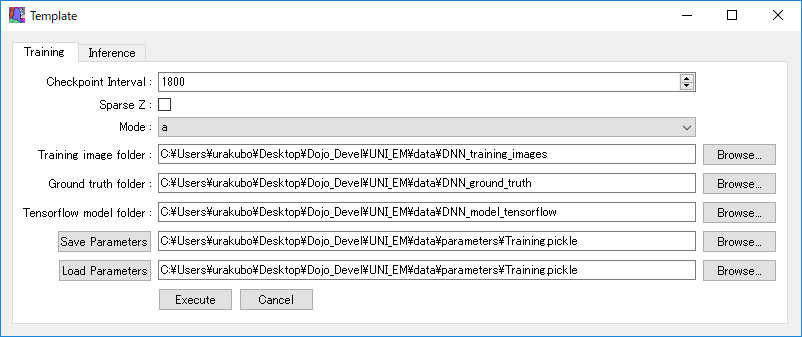
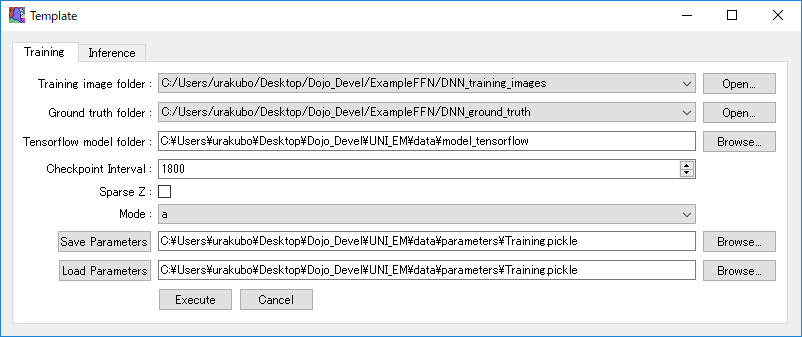
Cleanup

Changed region(s): [[0.0312, 0.2077, 0.9663, 0.6825]]

diff --git a/plugins/miscellaneous/TabTemplate.py b/plugins/miscellaneous/TabTemplate.py
@@ -76,12 +76,12 @@ class TabTemplate(MiscellaneousTemplate):
             elif args[i][1] == 'CheckBox':
                 obj_args.append(QCheckBox(''))
                 obj_args[-1].setChecked( args[i][2] )
-            elif args[i][1] == 'SelectOpenImage':
+            elif args[i][1] == 'SelectImageFolder':
                 obj_args.append(SyncListQComboBoxExcludeDjojMtifManager.get().create(filter, i))
                 #for item in self.parent.u_info.open_files:
                 #    if self.parent.u_info.open_files_type[item] != 'Dojo' :
                 #        obj_args[-1].addItem(item)
-                if args[i][2] == 'OpenImage':
+                if args[i][2] == 'OpenImageFolder':
                     require_browse_open_img.append(i)
             else:
                 print('Internal error. No fucntion.')

diff --git a/plugins/Blank/Blank.py b/plugins/Blank/Blank.py
@@ -5,12 +5,12 @@ import sys, os
 
 
 from PyQt5.QtWidgets import  QMessageBox,  QWidget
-
+from PyQt5.QtGui import QIcon, QPixmap
 
 from os import path, pardir
 main_dir = path.abspath(path.dirname(sys.argv[0]))  # Dir of main
 sys.path.append(main_dir)
-
+icon_dir = path.join(main_dir, "icons")
 #
 class GenerateDialog(QWidget):
     def __init__(self, parent):
@@ -18,7 +18,11 @@ class GenerateDialog(QWidget):
         self.initUI()
 
     def initUI(self):
-
-        QMessageBox.information(self, "Blank", "This is blank!")
+        msgBox = QMessageBox()
+        msgBox.setIcon(QMessageBox.Information)
+        msgBox.setWindowTitle("Blank")
+        msgBox.setText("This is blank!")
+        msgBox.setWindowIcon(QIcon(path.join(icon_dir, 'Mojo2_16.png')))
+        returnValue = msgBox.exec()
         return False
 

diff --git a/plugins/Template/Training.py b/plugins/Template/Training.py
@@ -56,8 +56,8 @@ class Training(MiscellaneousTemplate):
                         ]
 
         self.args = [
-                        ['Training image folder', 'SelectOpenImage', 'OpenImage'],
-                        ['Ground truth folder', 'SelectOpenImage', 'OpenImage'],
+                        ['Training image folder', 'SelectImageFolder', 'OpenImageFolder'],
+                        ['Ground truth folder', 'SelectImageFolder', 'OpenImageFolder'],
                         ['Tensorflow model folder', 'LineEdit', tensorflow_path, 'BrowseDir'],
                         ['Checkpoint Interval', 'SpinBox', [100, 1800, 65535]],
                         ['Sparse Z', 'CheckBox', False],

diff --git a/plugins/Template/Inference.py b/plugins/Template/Inference.py
@@ -49,8 +49,8 @@ class Inference(MiscellaneousTemplate):
                     ]
 
         self.args = [
-                        ['Test image folder', 'SelectOpenImage', 'OpenImage'],
-                        ['Inferred segmentation folder', 'SelectOpenImage', 'OpenImage'],
+                        ['Test image folder', 'SelectImageFolder', 'OpenImageFolder'],
+                        ['Inferred segmentation folder', 'SelectImageFolder', 'OpenImageFolder'],
                         ['Tensorflow model file' , 'LineEdit', tensorflow_file , 'BrowseFile'],
                     ]
 

diff --git a/annotator/Annotator/Annotator.py b/annotator/Annotator/Annotator.py
@@ -9,6 +9,8 @@ import sys
 import os
 from os import path, pardir
 main_dir = path.abspath(path.dirname(sys.argv[0]))  # Dir of main
+icon_dir = path.join(main_dir, "icons")
+
 from Annotator.AnnotatorServer import AnnotatorServerLogic
 from Annotator.ControlAnnotatorServer import ControlAnnotatorServer
 
@@ -21,6 +23,7 @@ class GenerateDialog(QWidget):
         self.u_info = parent.u_info
         self.parent = parent
         super().__init__()
+        self.setWindowIcon(QIcon(path.join(icon_dir, 'Mojo2_16.png')))
         self.initUI()
 
     def initUI(self):
